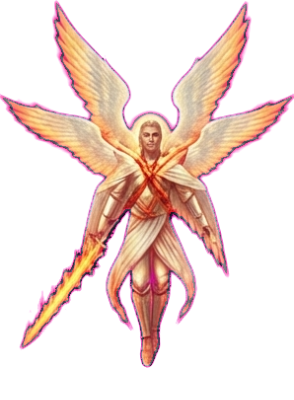
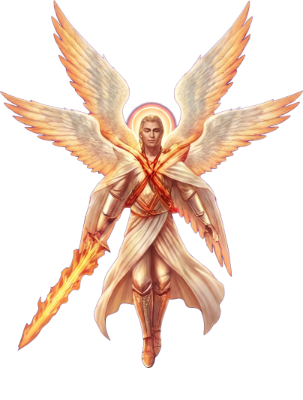
Complete the raster skin set: Moses, Elijah, Eden, and the angels re-rendered
All ten full-look skins are now raster, generated through the API at 2048px and
downscaled, so the whole set is consistent instead of three sharp ones and three
soft ones. 1.3MB total for ten skins.

The angels were re-rendered from their own shipped art as a reference, so the
approved designs survive the upscale rather than being redesigned.

Three fixes the batch forced, each of which will recur:

  - Eden came back with the garden painted behind her, which the keyer read as
    part of the figure -- her crop was 368px wide instead of 200. Naming a
    setting invites the model to draw it, so the prompt now names the garden for
    context and then says explicitly that it must not be drawn.
  - Gabriel came back with white rectangles floating near his feet, opaque
    enough to survive the key. Now excluded by name.
  - Both Gabriel and Michael kept drawing pink haloes even when told twice not
    to, and a pink halo cannot be keyed apart from a magenta background. Asking
    has now failed three times, so prep-skin recolours near-magenta pixels on the
    character to warm gold, preserving luminance so the halo keeps its shape and
    falloff and only the hue moves. Measured across all ten: 0% near-magenta
    remaining, down from 2.16% on Michael.

Cross and shades are deliberately absent. Neither is a full-look override -- one
draws a cross behind the player's own character and the other adds sunglasses to
[…]

Changed region(s): [[0.0, 0.0, 1.0, 0.93], [0.398, 0.18, 0.4286, 0.21]]

diff --git a/src/components/Character.tsx b/src/components/Character.tsx
@@ -184,6 +184,9 @@ const RASTER_SKINS: Record<string, string> = {
   baldwin: '/skins/baldwin.png',
   david: '/skins/david.png',
   esther: '/skins/esther.png',
+  moses: '/skins/moses.png',
+  elijah: '/skins/elijah.png',
+  eden: '/skins/eden.png',
   whale: '/skins/whale.png',
   gabriel: '/skins/gabriel.png',
   michael: '/skins/michael.png',
